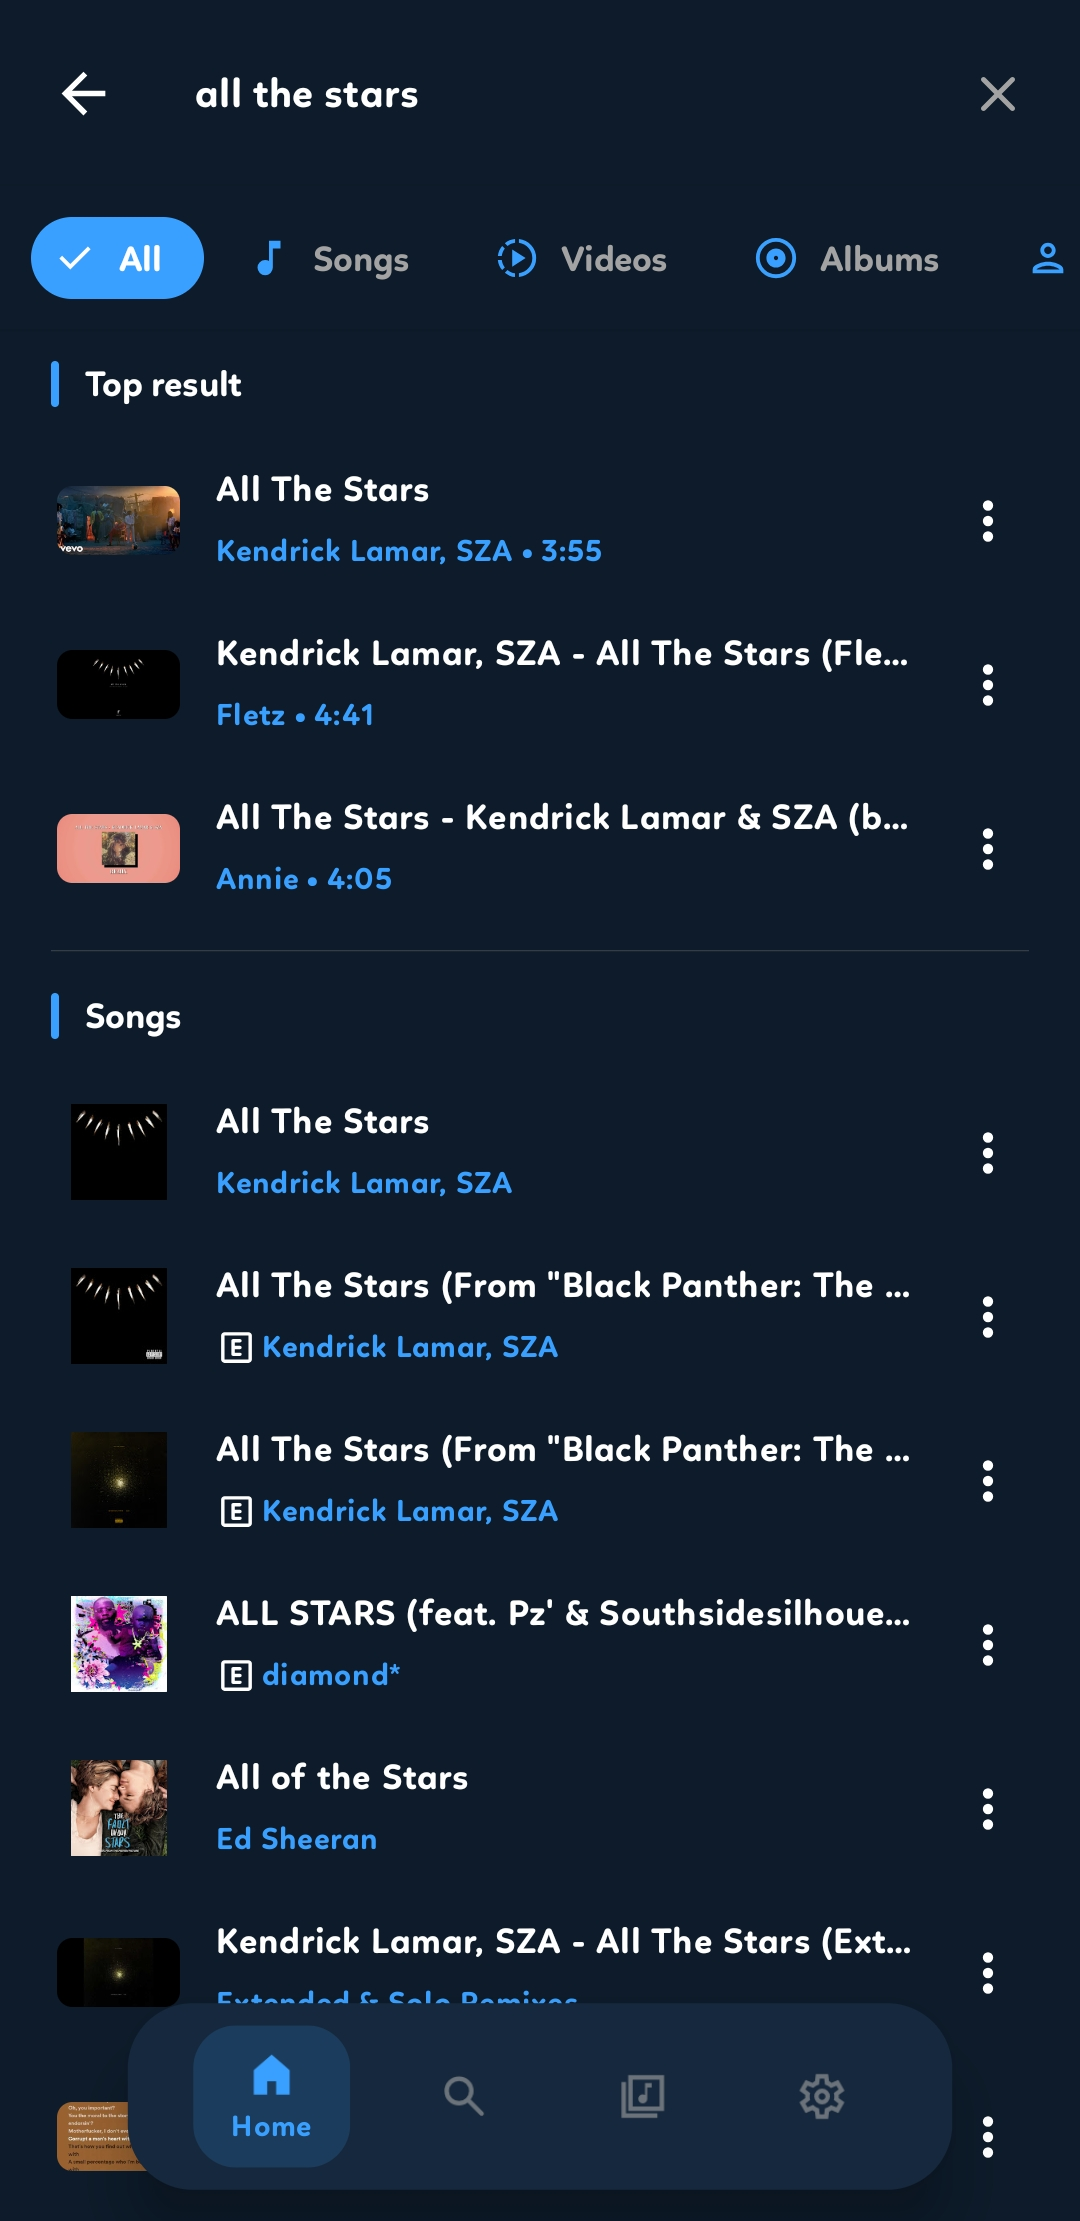
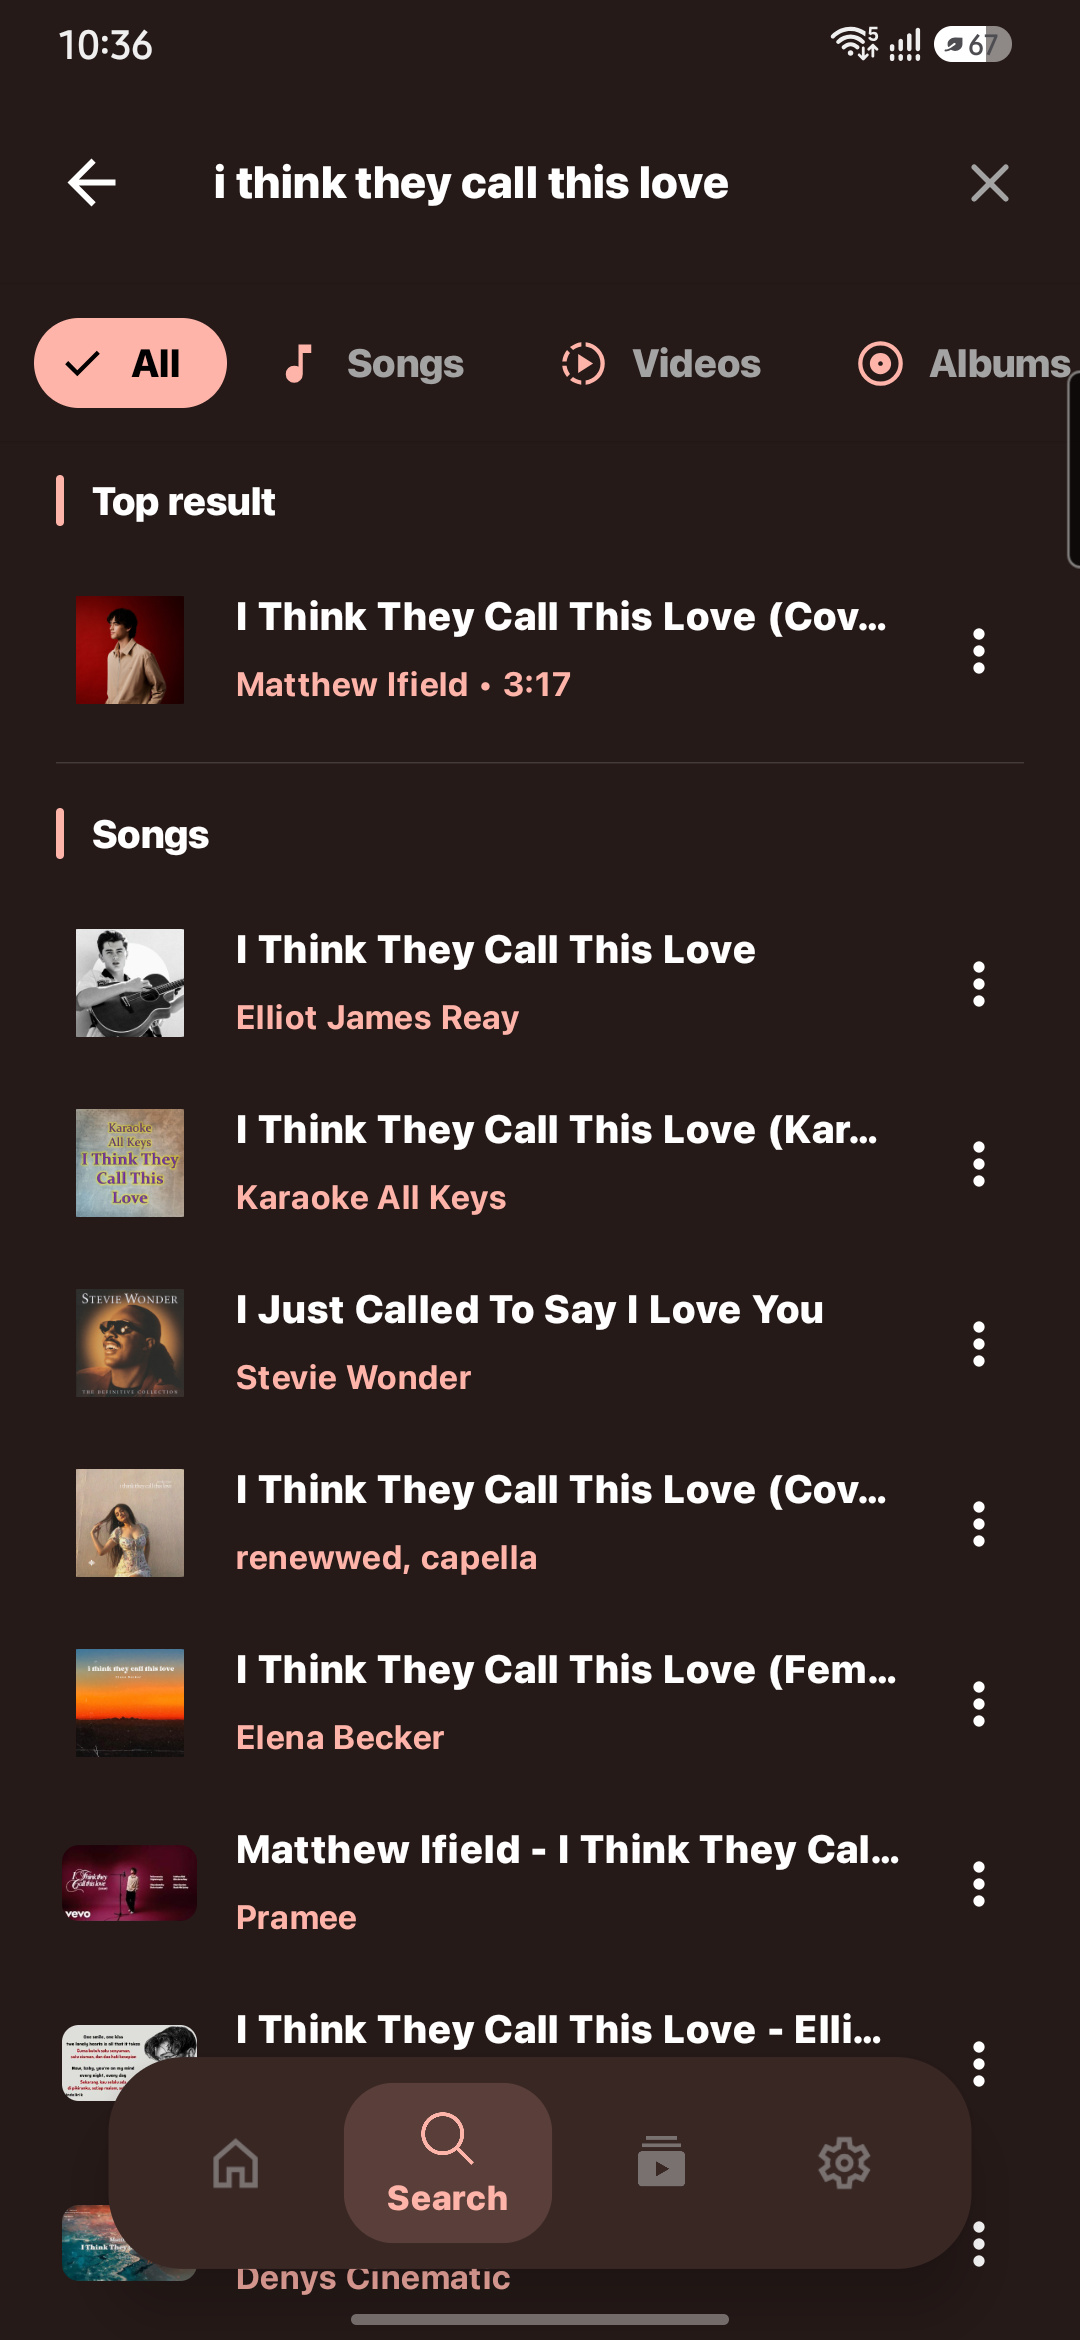
Screenshots updated

diff --git a/README.md b/README.md
@@ -156,15 +156,16 @@ Pulse is a work in progress. It has less to go on when your library and listenin
     <td align="center"><img src="docs/screenshots/search.jpg" width="260"/><br/><sub>Search</sub></td>
   </tr>
   <tr>
+    <td align="center"><img src="docs/screenshots/pulse.jpg" width="260" alt="Pulse taste profile and personalized recommendations"/><br/><sub>Pulse</sub></td>
+    <td align="center"><img src="docs/screenshots/listening-stats.jpg" width="260" alt="Listening time, play counts, and top songs"/><br/><sub>Listening Stats</sub></td>
+  </tr>
+  <tr>
+    <td align="center"><img src="docs/screenshots/library.jpg" width="260" alt="SMusic library categories"/><br/><sub>Library</sub></td>
     <td align="center"><img src="docs/screenshots/import-playlists.jpg" width="260"/><br/><sub>Import Playlists</sub></td>
-    <td align="center"><img src="docs/screenshots/update-check.jpg" width="260"/><br/><sub>Update Check</sub></td>
   </tr>
   <tr>
     <td align="center"><img src="docs/screenshots/settings.jpg" width="260" alt="SMusic settings categories"/><br/><sub>Settings</sub></td>
-    <td align="center"><img src="docs/screenshots/library.jpg" width="260" alt="SMusic library categories"/><br/><sub>Library</sub></td>
-  </tr>
-  <tr>
-    <td align="center" colspan="2"><img src="docs/screenshots/listening-stats.jpg" width="260" alt="Listening time, play counts, and top songs"/><br/><sub>Listening Stats</sub></td>
+    <td align="center"><img src="docs/screenshots/update-check.jpg" width="260"/><br/><sub>Update Check</sub></td>
   </tr>
 </table>
 
